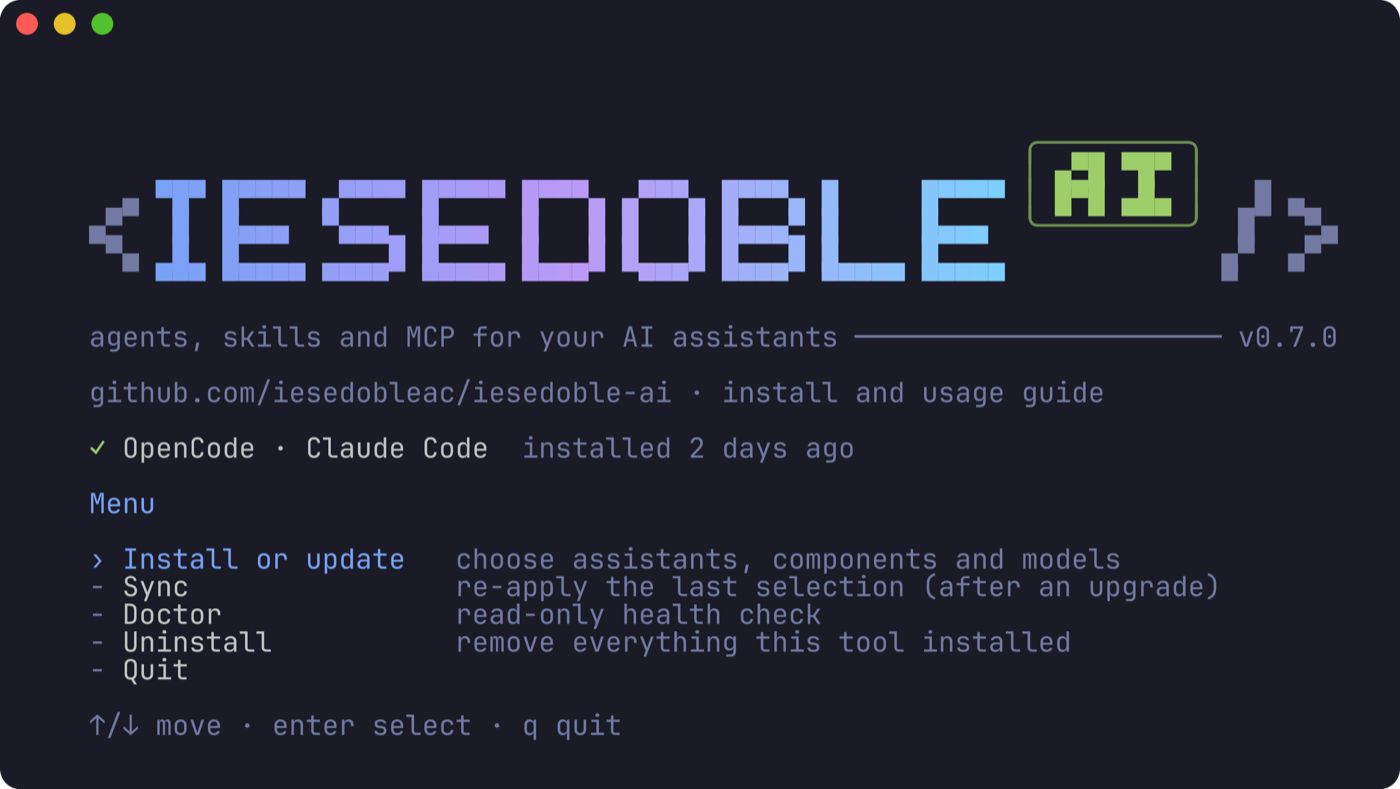
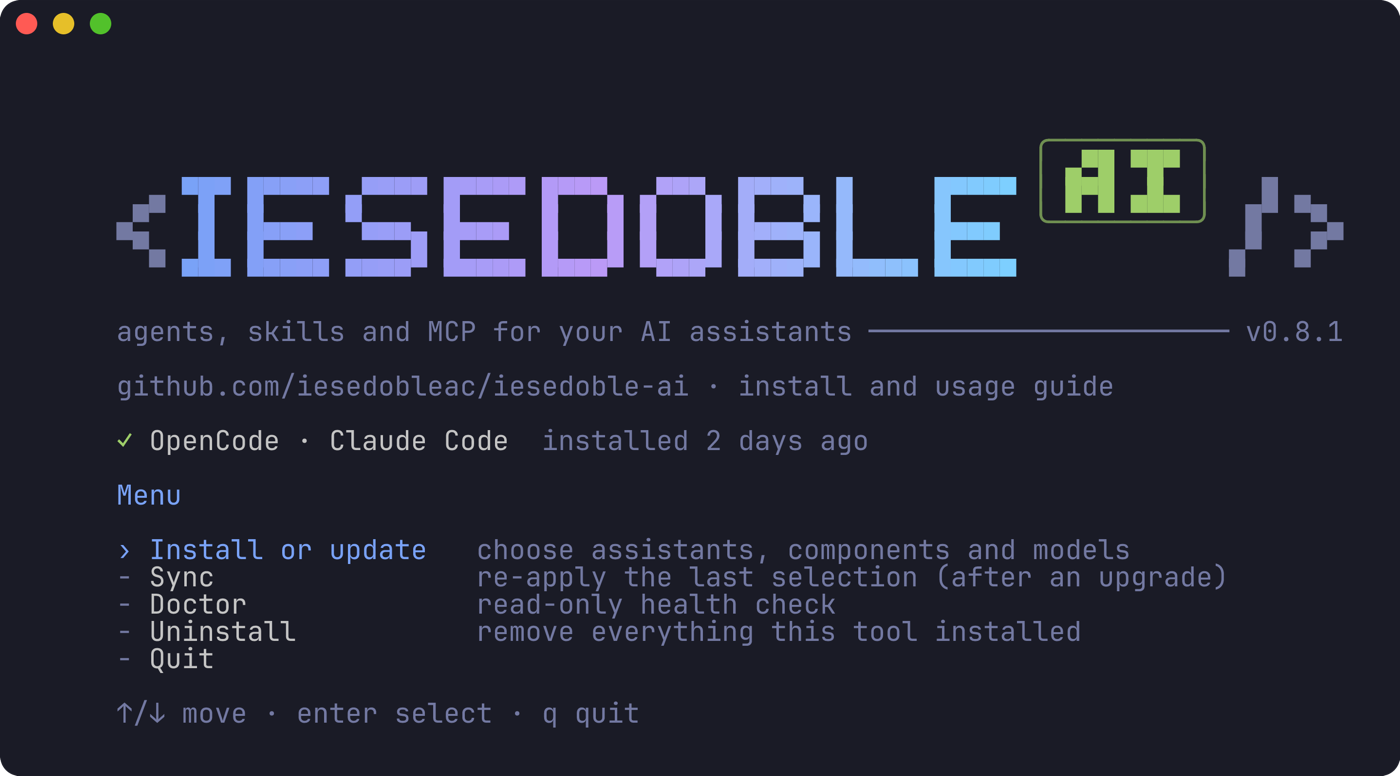
feat(tui): consistent left margin on every screen

diff --git a/internal/tui/tui.go b/internal/tui/tui.go
@@ -951,7 +951,22 @@ func (m Model) View() string {
 		}
 		b.WriteString(help("enter menu · q quit"))
 	}
-	return b.String() + "\n"
+	return indentLines(b.String(), margin) + "\n"
+}
+
+// margin is the blank space kept on the left of every screen.
+const margin = 2
+
+// indentLines puts n spaces before every non-empty line.
+func indentLines(text string, n int) string {
+	pad := strings.Repeat(" ", n)
+	lines := strings.Split(text, "\n")
+	for i, l := range lines {
+		if l != "" {
+			lines[i] = pad + l
+		}
+	}
+	return strings.Join(lines, "\n")
 }
 
 // profileGuide explains what each model role does and what suits it; the

diff --git a/internal/tui/header.go b/internal/tui/header.go
@@ -64,7 +64,7 @@ func header(width int) string {
 	for _, line := range logo {
 		logoWidth = max(logoWidth, utf8.RuneCountInString(line))
 	}
-	if width != 0 && width < logoWidth+4 {
+	if width != 0 && width < logoWidth+4+margin {
 		return title.Render("iesedoble-ai") + " " + subtle.Render(version) + "\n" + subtle.Render(tagline)
 	}
 
